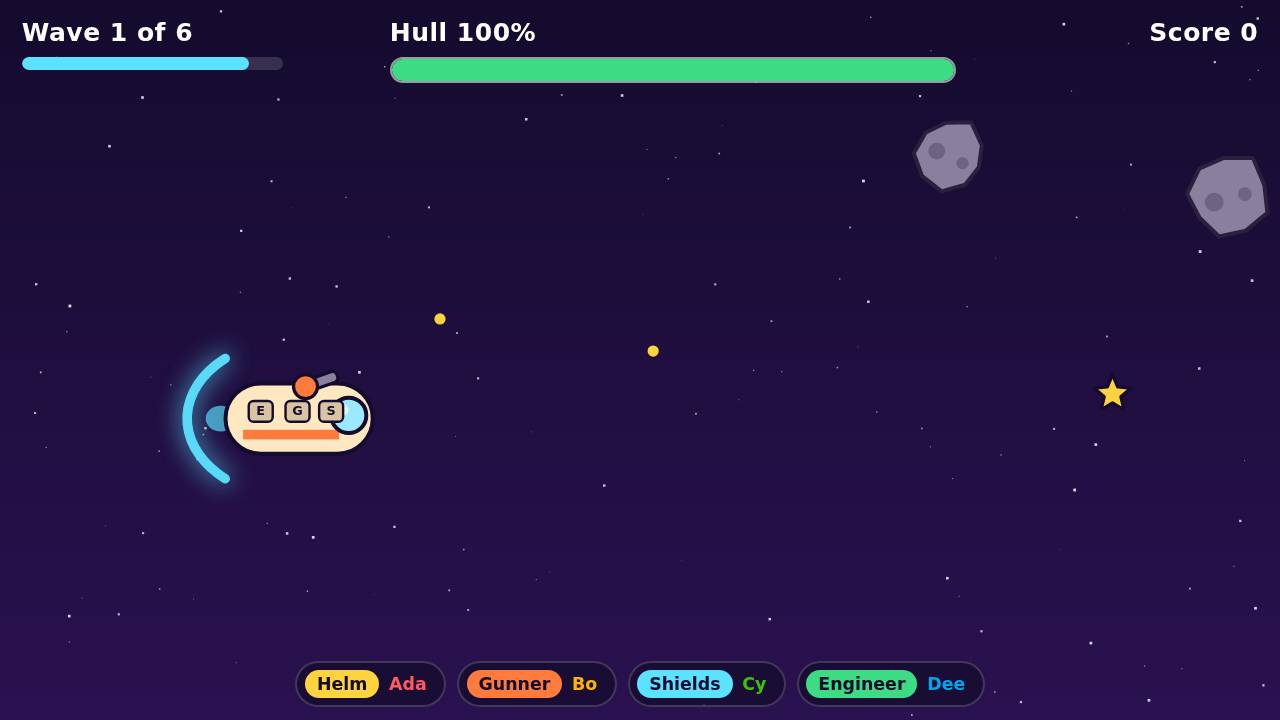
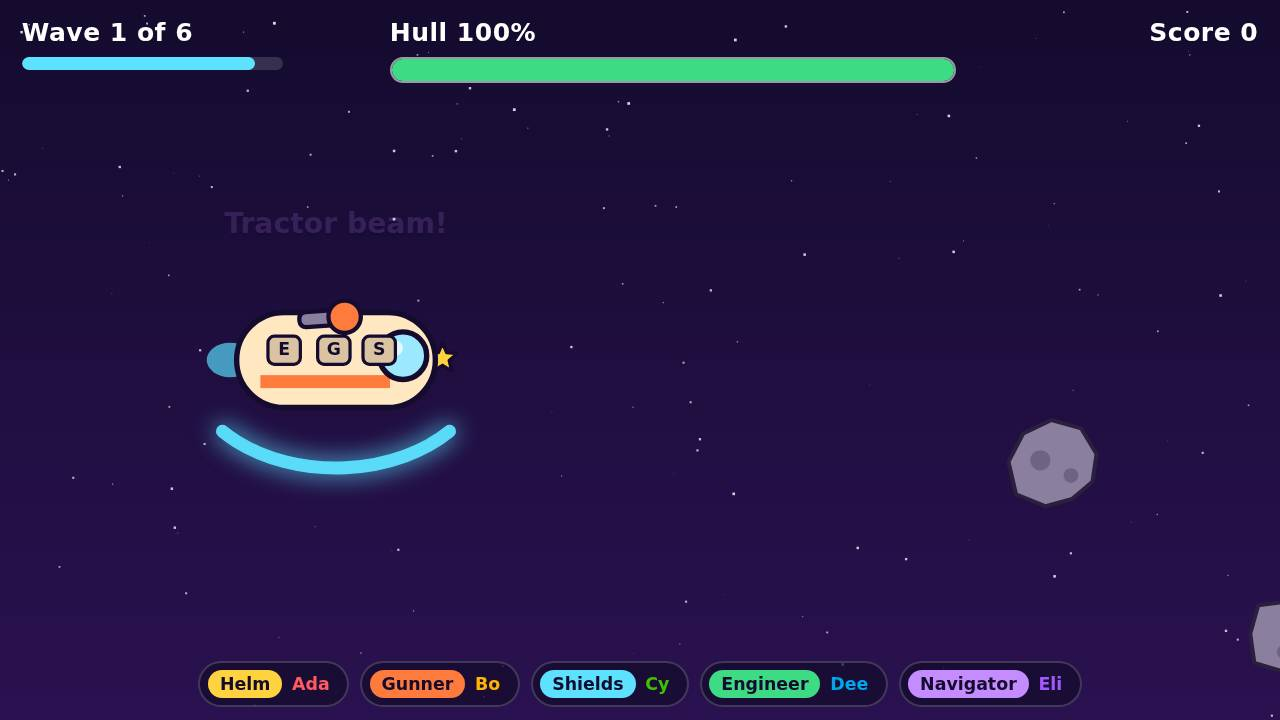
Comet Crew: a bigger ship on the TV; warning phones say when no comet is coming

diff --git a/server/src/games/comet-crew/game.html b/server/src/games/comet-crew/game.html
@@ -74,6 +74,7 @@
   .cross .front { grid-column: 3; grid-row: 2; } .cross .bottom { grid-column: 2; grid-row: 3; }
   .cross .hub { grid-column: 2; grid-row: 2; display: grid; place-items: center; border-radius: 50%; background: #ffe7c2; color: #140b2e; font-weight: 900; font-size: 0.8rem; margin: 0.6rem; }
   .warns { display: flex; flex-direction: column; gap: 0.35rem; min-height: 2.6rem; }
+  .calm { margin: 0; font-weight: 700; text-align: center; }
   .warn { padding: 0.45rem 0.7rem; border-radius: 0.7rem; background: #ff3b5c; color: #fff; font-weight: 900; font-size: 1.2rem; }
   .warn.soon { animation: blink 0.4s steps(2) infinite; }
   @keyframes blink { 50% { background: #140b2e; } }
@@ -179,7 +180,8 @@
   function bigScreen(restored) {
     const { el, sound } = party.ui;
     const W = 1600, H = 900;
-    const SHIP_HW = 78, SHIP_HH = 36; // hitbox half-sizes: a bit smaller than the drawing
+    const K = 1.35; // the ship's size: drawn at this scale, so it reads on a TV
+    const SHIP_HW = 78 * K, SHIP_HH = 36 * K; // hitbox half-sizes: a bit smaller than the drawing
     const TURRET = { gun: [8, -40], gun2: [-72, 0], gun3: [8, 40] };
     const ROOM_X = { engine: -48, guns: -2, shields: 40 };
     const WARN_MS = 2600, NAV_MS = 5000, COMET_FLY_MS = 700, SHIELD_GRACE_MS = 350;
@@ -346,7 +348,7 @@
       g.fires[room] -= 1;
       if (g.fires[room] === 0) {
         if (by && g.log[by]) g.log[by].fires += 1;
-        pop(ship.x + ROOM_X[room], ship.y - 70, 'Fire out!', '#3ddc84');
+        pop(ship.x + ROOM_X[room] * K, ship.y - 90, 'Fire out!', '#3ddc84');
         buildCrewStrip();
       }
       dirty = true;
@@ -463,7 +465,7 @@
         // Autopilot: back to the middle, and a half-hearted dodge of the nearest rock ahead.
         tx = Math.max(-0.5, Math.min(0.5, (420 - ship.x) / 300));
         ty = Math.max(-0.5, Math.min(0.5, (450 - ship.y) / 300));
-        const threat = rocks.filter((r) => r.x > ship.x && r.x - ship.x < 380 && Math.abs(r.y - ship.y) < 120).sort((a, b) => a.x - b.x)[0];
+        const threat = rocks.filter((r) => r.x > ship.x && r.x - ship.x < 400 && Math.abs(r.y - ship.y) < 140).sort((a, b) => a.x - b.x)[0];
         if (threat) ty = threat.y > ship.y ? -0.6 : 0.6;
       }
       const speed = 420 * (g.fires.engine > 0 ? 0.35 : 1);
@@ -492,7 +494,7 @@
         if (firing && !over && g.fires.guns === 0 && now - gun.lastShot >= 220) {
           gun.lastShot = now;
           const [ox, oy] = TURRET[st];
-          bullets.push({ x: ship.x + ox + Math.cos(gun.angle) * 30, y: ship.y + oy + Math.sin(gun.angle) * 30, vx: Math.cos(gun.angle) * 1100, vy: Math.sin(gun.angle) * 1100, until: now + 1000, by: id });
+          bullets.push({ x: ship.x + ox * K + Math.cos(gun.angle) * 40, y: ship.y + oy * K + Math.sin(gun.angle) * 40, vx: Math.cos(gun.angle) * 1100, vy: Math.sin(gun.angle) * 1100, until: now + 1000, by: id });
           if (id) {
             gun.heat += 0.1;
             if (gun.heat >= 1) { gun.heat = 1; gun.overUntil = now + 2000; tellPhones(); }
@@ -539,7 +541,7 @@
         }
         p.x += p.vx * dt;
         p.y += p.vy * dt;
-        if (Math.hypot(p.x - ship.x, p.y - ship.y) < 75) {
+        if (Math.hypot(p.x - ship.x, p.y - ship.y) < 95) {
           p.dead = true;
           const credit = p.pulled ? who('nav') : helmId;
           if (p.kind === 'star') {
@@ -571,7 +573,7 @@
           c.done = true;
           const recent = sideHistory.some((h) => h.side === c.side && now - h.at <= SHIELD_GRACE_MS);
           const blocked = g.fires.shields === 0 && (g.side === c.side || recent);
-          const hx = ship.x + SIDE[c.side].dx * 110, hy = ship.y + SIDE[c.side].dy * 80;
+          const hx = ship.x + SIDE[c.side].dx * 150, hy = ship.y + SIDE[c.side].dy * 110;
           if (blocked) {
             g.score += 20;
             if (shieldId && g.log[shieldId]) g.log[shieldId].blocks += 1;
@@ -672,6 +674,10 @@
 
     function drawShip(now) {
       const { x, y } = ship;
+      ctx.save();
+      ctx.translate(x, y);
+      ctx.scale(K, K);
+      ctx.translate(-x, -y);
       // Engine glow.
       const flick = 0.75 + 0.25 * Math.sin(now / 40);
       ctx.fillStyle = g.fires.engine > 0 ? '#ff7a3d88' : '#5ce1ffaa';
@@ -731,6 +737,7 @@
         ctx.stroke();
         ctx.shadowBlur = 0;
       }
+      ctx.restore();
     }
     function drawFlames(x, y, level, now) {
       for (let i = 0; i < Math.min(3, Math.ceil(level / 2)); i++) {
@@ -794,14 +801,14 @@
         ctx.strokeStyle = `rgba(255, 255, 255, ${1 - t})`;
         ctx.lineWidth = 6;
         ctx.beginPath();
-        ctx.arc(ship.x + d.dx * 120, ship.y + d.dy * 85, 20 + t * 60, 0, Math.PI * 2);
+        ctx.arc(ship.x + d.dx * 160, ship.y + d.dy * 115, 20 + t * 60, 0, Math.PI * 2);
         ctx.stroke();
         return;
       }
       const t = 1 - (c.impactAt - now) / COMET_FLY_MS;
       const from = cometStart(c);
       const d = SIDE[c.side];
-      const tx = ship.x + d.dx * 130, ty = ship.y + d.dy * 95;
+      const tx = ship.x + d.dx * 175, ty = ship.y + d.dy * 128;
       const x = from.x + (tx - from.x) * t, y = from.y + (ty - from.y) * t;
       const ang = Math.atan2(y - from.y, x - from.x);
       const tail = ctx.createLinearGradient(x, y, x - Math.cos(ang) * 260, y - Math.sin(ang) * 260);
@@ -1103,6 +1110,7 @@
         if (parts.warns.dataset.sig !== sig) {
           parts.warns.dataset.sig = sig;
           parts.warns.replaceChildren(...text.map((t) => el('div', { class: `warn${t.soon ? ' soon' : ''}`, 'data-side': t.side }, t.text)));
+          if (!text.length) parts.warns.append(el('p', { class: 'muted calm' }, state.station === 'nav' ? 'No comets on the scanner. Watch the rocks and stars: tractor when lots of stars are out.' : 'No comet coming. Listen for the navigator!'));
         }
       }
       requestAnimationFrame(warnLoop);
